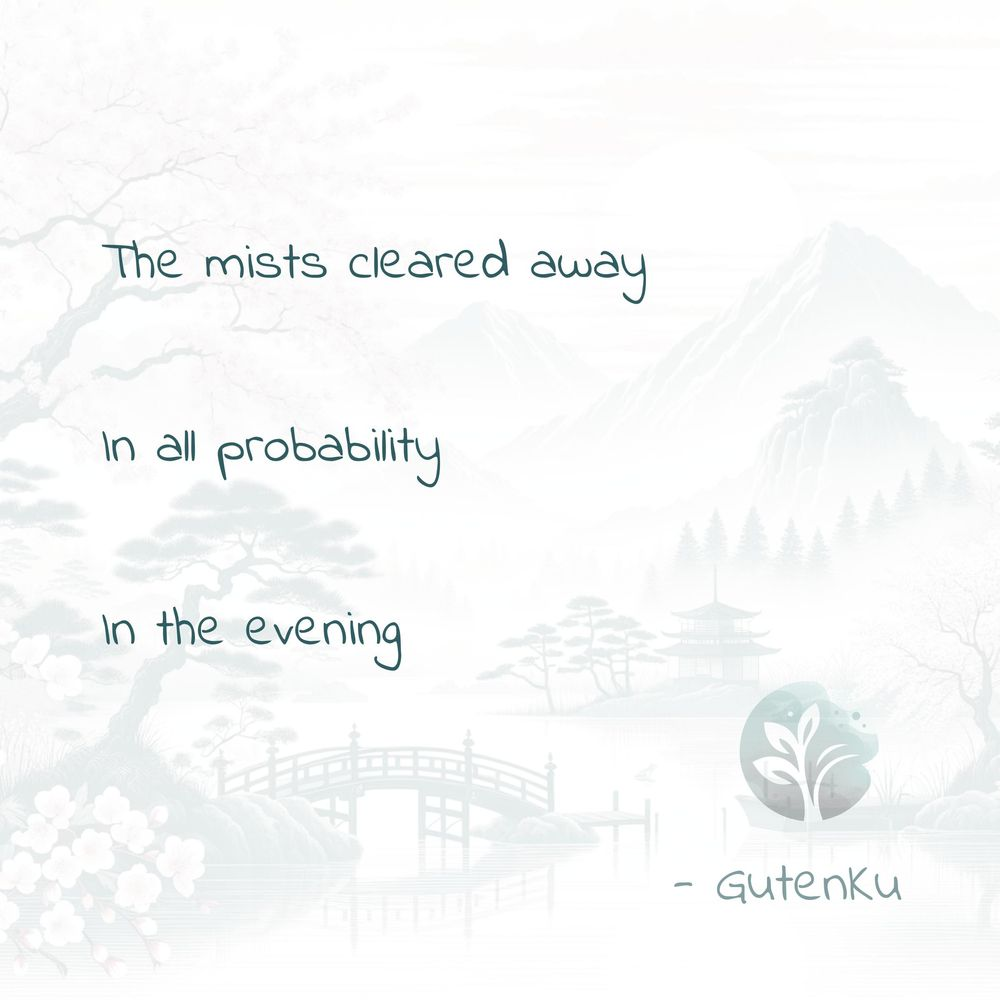
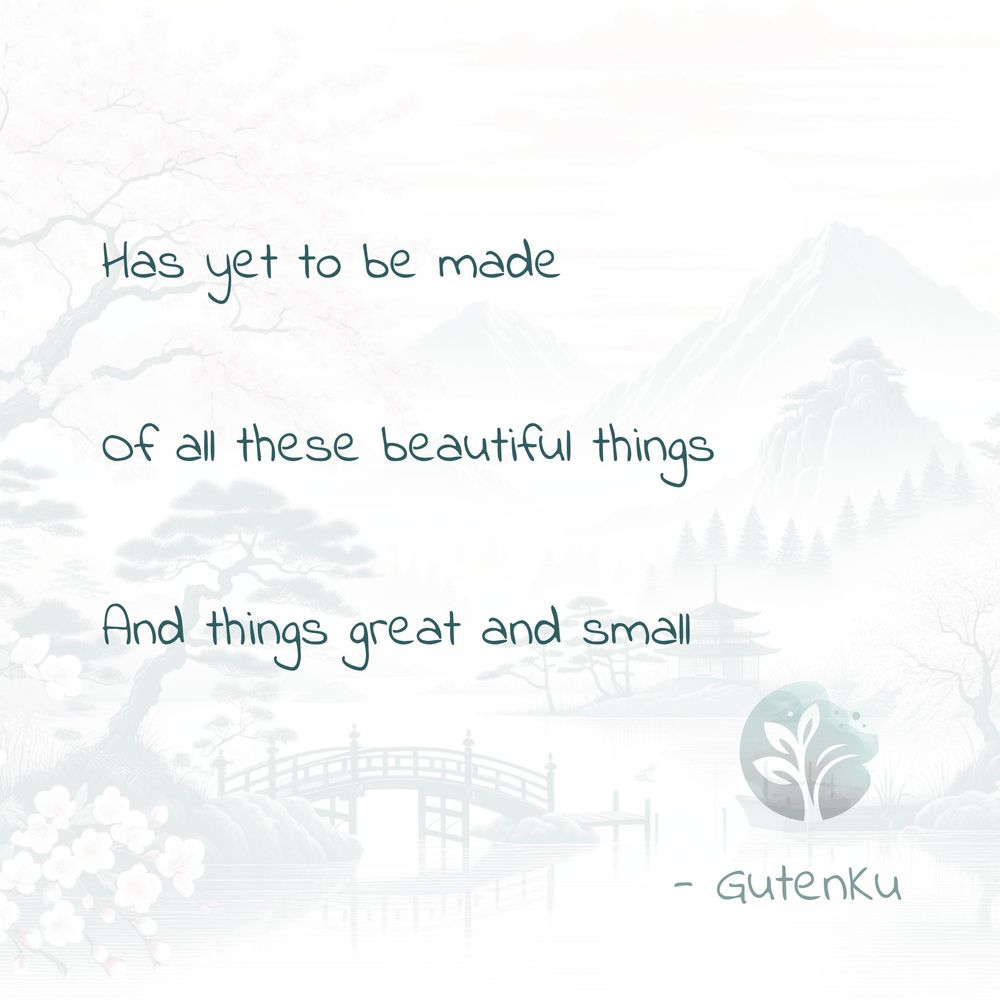
docs(readme): updated daily haiku card

Changed region(s): [[0.093, 0.589, 0.713, 0.682], [0.093, 0.434, 0.713, 0.496], [0.093, 0.248, 0.651, 0.31]]

diff --git a/README.md b/README.md
@@ -2,9 +2,9 @@
 
 ## 🌸 Daily Haiku Card 🗻
 
-<img src="/assets/img/daily_haiku_card.jpg?t=1737417601" width="300" alt="Daily Haiku Card">
+<img src="/assets/img/daily_haiku_card.jpg?t=1737504001" width="300" alt="Daily Haiku Card">
 
-Last Snapshot: `Tue, 21 Jan 2025 00:00:01 +0000`
+Last Snapshot: `Wed, 22 Jan 2025 00:00:01 +0000`
 
 > 👩🏫 “This haiku captures a moment of universal appreciation and joy. The speaker observes a collective enjoyment, suggesting that 'they'—perhaps people, animals, or even nature itself—find something delightful. The phrase 'the whole big dear world' evokes a sense of inclusivity and affection, as if the entire world is united in this shared experience of pleasure. The haiku's simplicity and warmth invite readers to reflect on the small yet profound joys that connect us all.”
 >
